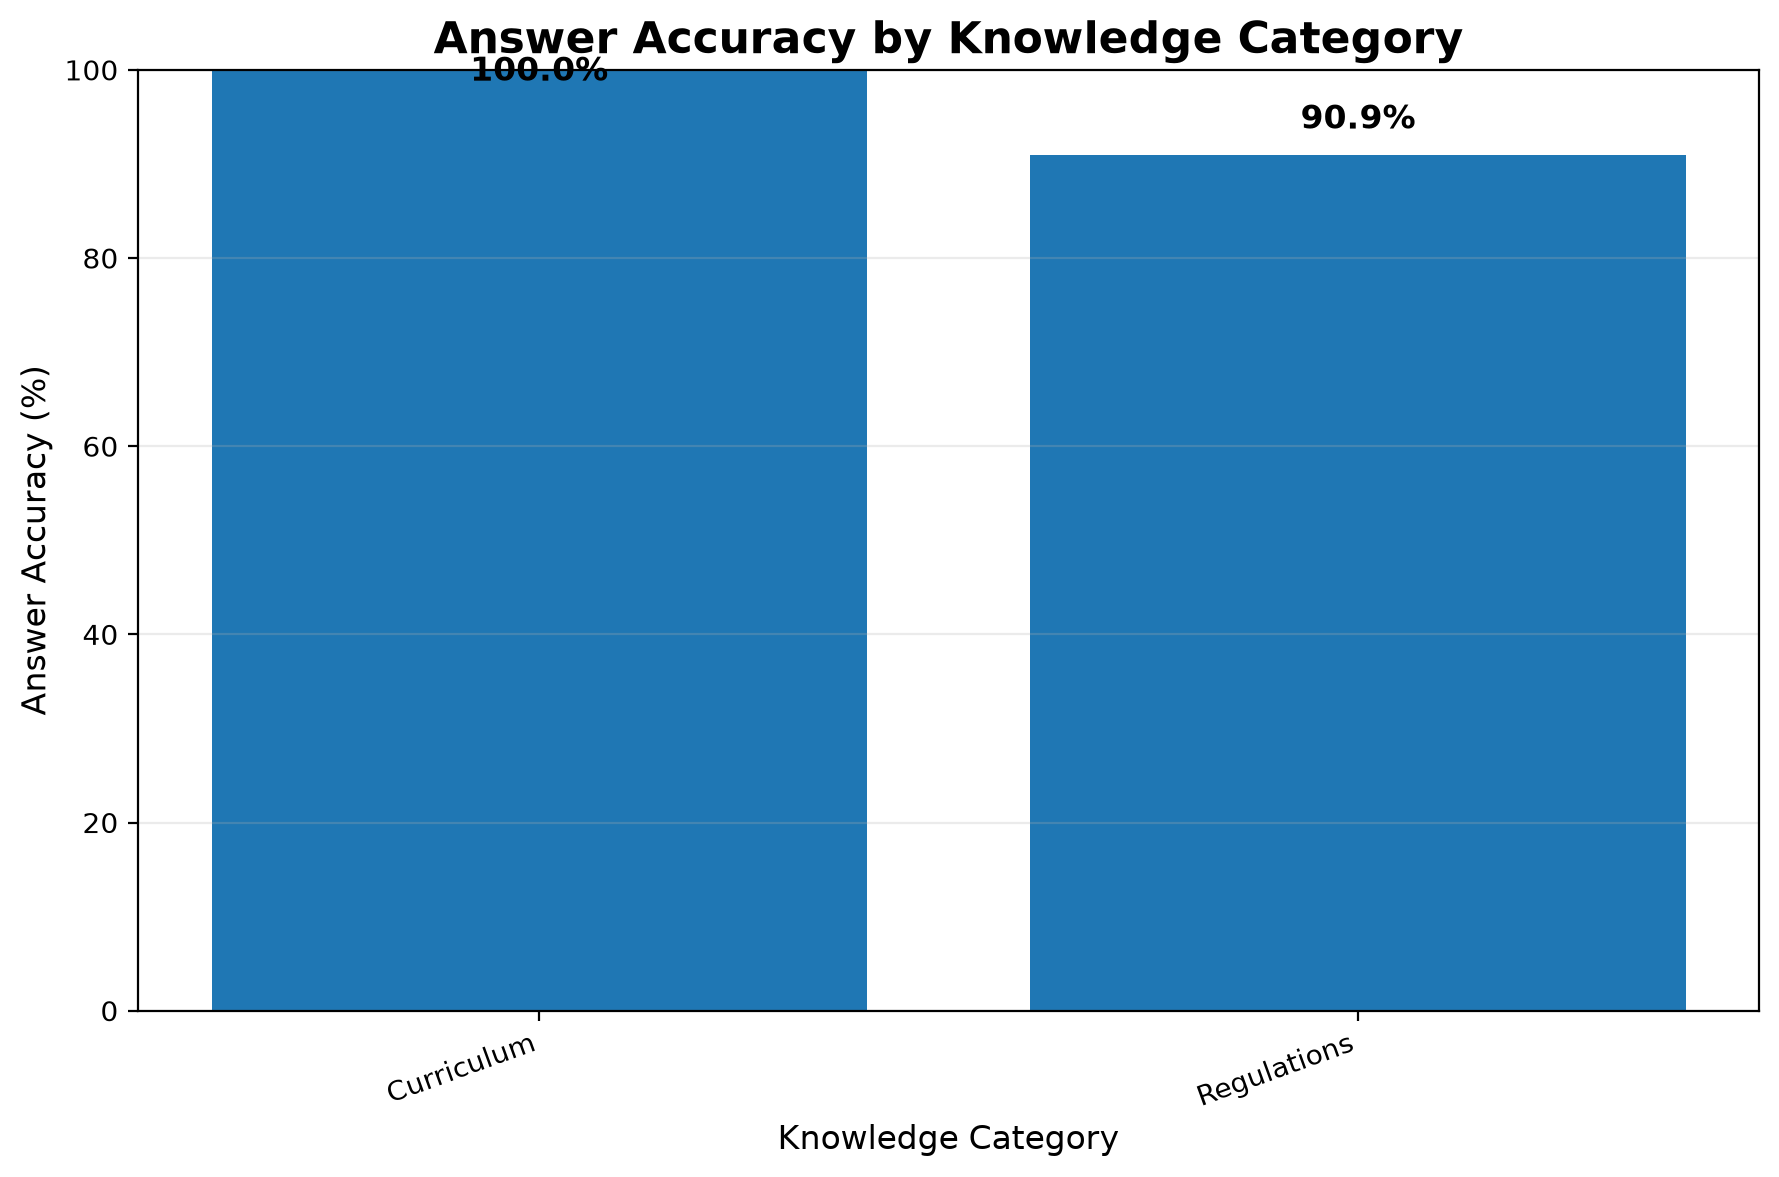
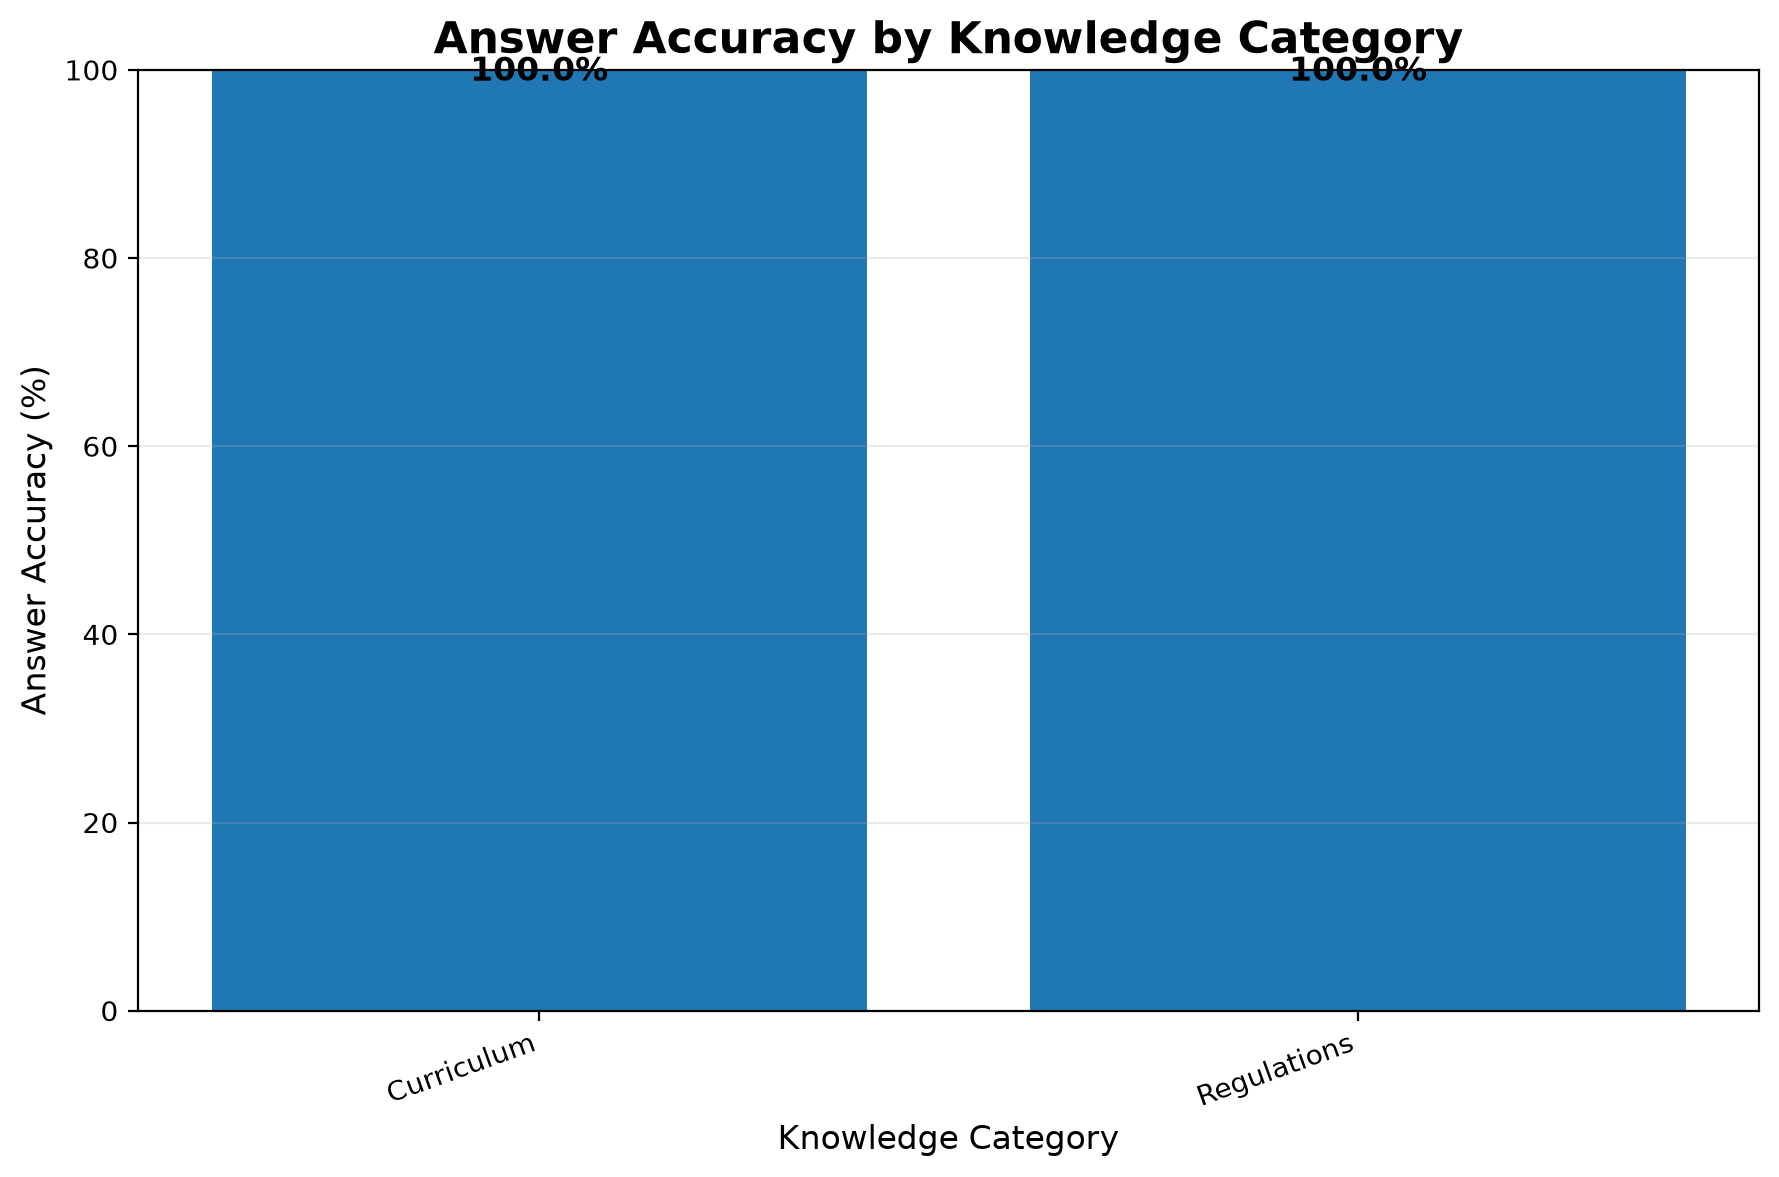
error fixed

Changed region(s): [[0.5565, 0.0306, 0.9584, 0.1529]]

diff --git a/REC-Voice-AI-Receptionist/backend/app/evaluation/visualize_results.py b/REC-Voice-AI-Receptionist/backend/app/evaluation/visualize_results.py
@@ -17,21 +17,19 @@ import pandas as pd
 # app
 #     ↓
 # backend
+#     ↓
+# PROJECT ROOT
 #
-# parents[2] = backend
+# parents[3] = project root
 
-BACKEND_ROOT = Path(__file__).resolve().parents[2]
+PROJECT_ROOT = Path(__file__).resolve().parents[3]
 
-# Evaluation results are stored inside backend/evaluation_results
-EVALUATION_DIR = (
-    BACKEND_ROOT
-    / "evaluation_results"
-)
+# Evaluation results are stored at:
+# REC-Voice-AI-Receptionist/evaluation_results
 
-CSV_FILE = (
-    EVALUATION_DIR
-    / "rag_evaluation_results.csv"
-)
+EVALUATION_DIR = PROJECT_ROOT / "evaluation_results"
+
+CSV_FILE = EVALUATION_DIR / "rag_evaluation_results.csv"
 
 OUTPUT_DIR = EVALUATION_DIR
 
@@ -454,7 +452,7 @@ def create_question_chart(
     )
 
     ax.set_title(
-        "Question-wise Evaluation Performance",
+        "Normal Query Evaluation Performance",
         fontsize=16,
         fontweight="bold",
     )

diff --git a/REC-Voice-AI-Receptionist/backend/app/telephony/audio_gateway.py b/REC-Voice-AI-Receptionist/backend/app/telephony/audio_gateway.py
@@ -2192,3 +2192,4 @@ def main() -> None:
 
 if __name__ == "__main__":
     main()
+    
